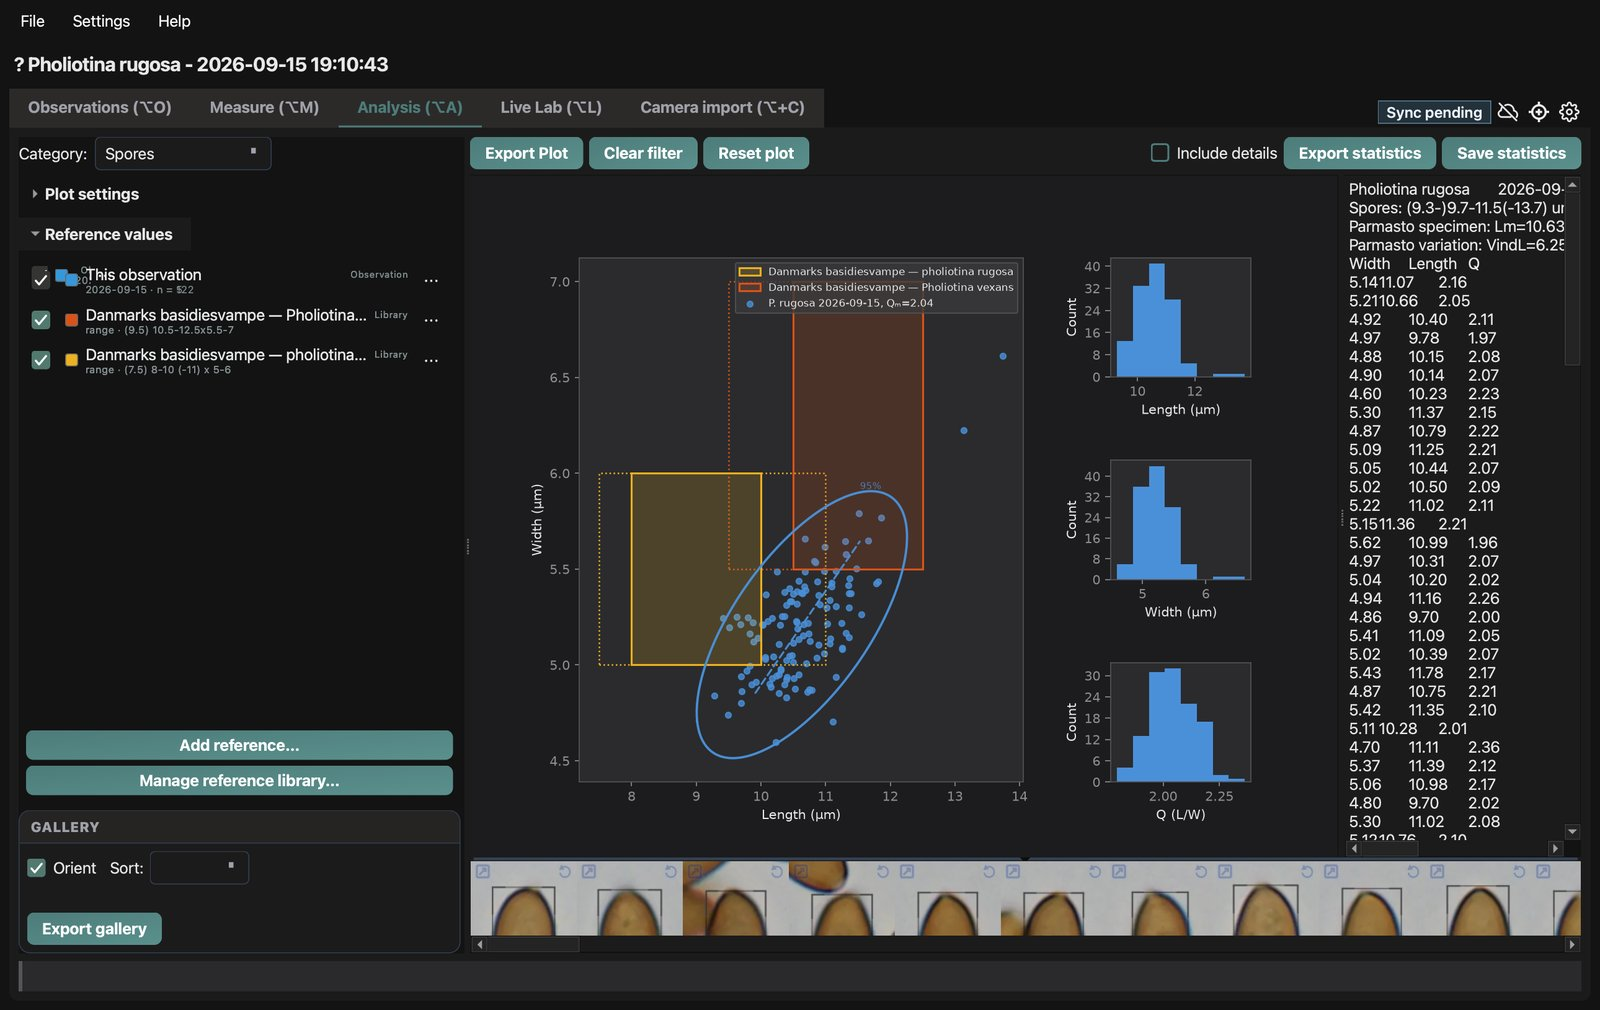
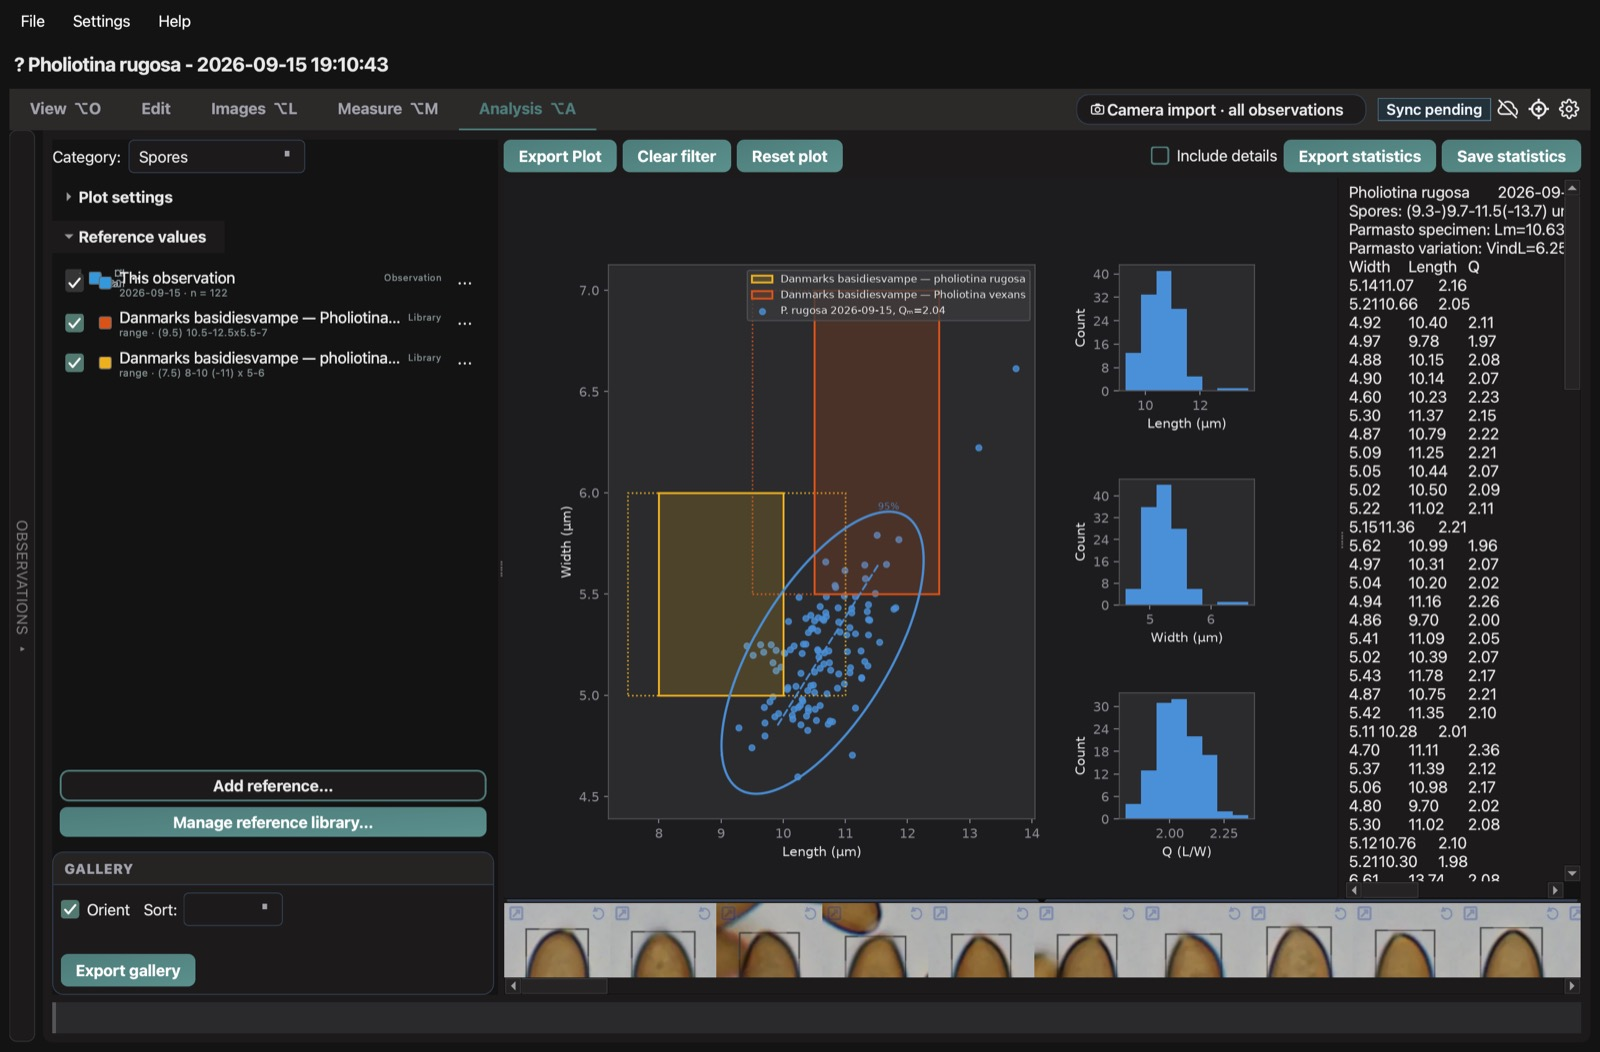
docs(readme): retake screenshots and describe the redesigned modes
The README now tours the mode bar (View, Edit, Images, Measure,
Analysis, Camera import) and the observation rail, with seven new
screenshots rendered from the merged redesign on an isolated copy of
the owner's observations. Edit in place, Images' Live and Files
sources, and the new-observation flow replace the retired dialogs.

diff --git a/README.md b/README.md
@@ -23,39 +23,48 @@ Publishing and place names follow the services that make most sense locally:
 
 The screenshots below are from the author's own observations from the 2026 season.
 
-### Observations
+The window has one mode bar: **View**, **Edit**, **Images**, **Measure** and **Analysis**, with **Camera import** on the right. In Images, Measure and Analysis the observation list folds into a thin rail on the left; click it to open the list as a drawer and switch observations without leaving the page.
 
-Every find is a row in the **Observations** tab, with its field and microscope images in the gallery below. From here you create, edit, publish and sync observations, and open the species plate.
+### View
 
-![Observations tab](docs/images/readme/observations.jpg)
+Every find is a row in **View**, as a table or with large image previews, and its field and microscope images run along the strip below. From here you create, publish and sync observations and open the species plate.
 
-### Observation details
+![View mode with the observation table](docs/images/readme/view.jpg)
 
-The observation dialog holds the date, coordinates, place name and comments, who can see the find in Sporely Cloud, and the species. Search for a scientific or common name in one field, or ask Artsorakel or iNaturalist to suggest the species from your photos. Habitat (NiN2 biotope), substrate and host (Grows on) have their own tabs.
+### Edit
 
-![Observation details dialog](docs/images/readme/observation-details.jpg)
+**Edit** opens the selected observation in the main window, and changes save as you go. It holds the species, date, coordinates, place name and comments. Search for a scientific or common name in one field, or ask Artsorakel or iNaturalist to suggest the species from your photos. Habitat (NiN2 biotope), substrate and host (Grows on) have their own tabs. **Status and publishing** takes the observation from draft to finished to published, and sets who can see it in Sporely Cloud and how precisely its location is shown.
+
+![Edit mode for an observation](docs/images/readme/edit.jpg)
+
+### Images
+
+**Images** adds pictures to the current observation from two sources:
+
+- **Live (microscope)** watches your microscope camera's capture folder during a session and brings new captures in as you work, tagged with the objective, contrast, mount, stain, condition and sample source you have selected. New captures stay unsaved, with an orange border, until you choose **Save to observation**. **Log only** records a session without a connected camera.
+- **Files and SD card** adds field and microscope photos from disk or a memory card, with crop, AI crop and rotate.
+
+![Images mode with a live microscope capture](docs/images/readme/images.jpg)
 
 ### Measure
 
-In the **Measure** tab you measure spores and other structures on calibrated microscope images, with rectangles, lines or multi-line paths. Each measurement can be fine-tuned in the preview on the right. Objective, contrast, mount, stain, condition and sample source are kept for every microscope image.
+In **Measure** you measure spores and other structures on calibrated microscope images, with rectangles, lines or multi-line paths. Each measurement can be fine-tuned in the preview on the right. Objective, contrast, mount, stain, condition and sample source are kept for every microscope image.
 
-![Measure tab with spore measurements](docs/images/readme/measure.jpg)
+![Measure mode with spore measurements](docs/images/readme/measure.jpg)
 
 ### Analysis
 
-The **Analysis** tab plots length, width and Q (L/W) for the observation, with histograms and a confidence ellipse, and compares them with reference values from the literature or your own reference library. Plots, statistics and an image gallery can be exported.
+**Analysis** plots length, width and Q (L/W) for the observation, with histograms and a confidence ellipse, and compares them with reference values from the literature or your own reference library. Plots, statistics and an image gallery can be exported.
 
-![Analysis tab comparing measurements with reference data](docs/images/readme/analysis.jpg)
+![Analysis mode comparing measurements with reference data](docs/images/readme/analysis.jpg)
 
 ### Species plate
 
-**Plate** builds a presentation plate from one observation: field photos in the background, microscope images as insets with their magnification and preparation, and the spore statistics as a caption. The plate at the top of this page was made this way. Layouts can be saved and reused.
+**Plate** in View builds a presentation plate from one observation: field photos in the background, microscope images as insets with their magnification and preparation, and the spore statistics as a caption. The plate at the top of this page was made this way. Layouts can be saved and reused.
 
-### Live Lab and Camera import
+### Camera import
 
-**Live Lab** watches your microscope camera's capture folder and imports new images into the current observation as you work, tagged with the objective, contrast, mount and stain you have selected. **Camera import** matches field and microscope photos taken earlier to the right observations by their timestamps, optionally using a Sync Shot QR code to correct a camera clock.
-
-![Live Lab tab](docs/images/readme/live-lab.jpg)
+**Camera import** works across all observations. It matches field photos to observations, and microscope photos to Live Lab sessions, by their timestamps. If a camera clock is off, photograph the time code Sporely shows and choose that photo to correct it.
 
 ### Calibration
 
@@ -134,17 +143,17 @@ On macOS, when you start the app from VS Code or with `python main.py`, the menu
 
 ### Create your first observation
 
-1. In the Observations tab, click **New** (or press N).
-2. Add field and microscope images. You can select several at once.
-3. For microscope images, choose the objective, contrast, mount, stain and condition. Ctrl+click several images in the gallery to set them all at once.
-4. Search for the species, or use **Guess** to get AI suggestions.
-5. Save the observation.
+1. In **View**, click **New** (or press N). Sporely opens **Images › Files and SD card** for the new observation.
+2. Choose field and microscope photos, from files or an SD card. You can select several at once.
+3. Mark each photo as **Field** or **Microscope**, and for microscope images choose the objective, contrast, mount, stain and condition.
+4. Click **Save new observation**. It is saved as a draft and opens in **Edit**.
+5. Search for the species, or use **Guess** to get AI suggestions. Changes save as you go.
 
 ### Measure and analyze
 
 - In **Measure**, choose a category (Spores, Basidia, Cheilocystidia …) and draw rectangles for length and width, or lines for length only.
 - In **Analysis**, look at the distributions and add reference values to compare with.
-- Click **Plate** in the Observations tab to build a species plate.
+- Click **Plate** in View to build a species plate.
 
 ### Species plate layouts
 
